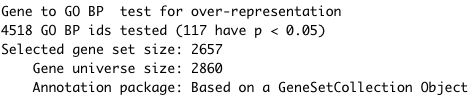
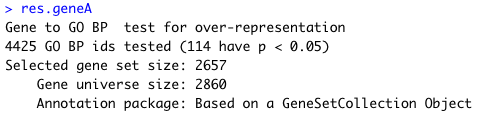
testing universe=all genes and universe=genes in causality

Changed region(s): [[0.0, 0.0306, 0.7353, 0.6429], [0.0588, 0.8265, 1.0, 0.9796], [0.0588, 0.6429, 0.4706, 0.7959]]

diff --git a/summary.md b/summary.md
@@ -343,8 +343,8 @@ We were expecting that the boxplot including transcription factors/regulators wo
 I used GOstats, an R package (bioconductor), to test GO terms for over representation. I used both a classical hypergeometric test and a conditional hypergeometric test, which uses the relationships among GO terms to decorrelate the results
 
 First I needed to define a few parameters:
-* **universe** - all the genes in the dataset (can be involved in the causality or not)
-* **interesting genes** - causal genes or affected genes
+* **universe** - all the genes in the dataset (can be involved in the causality or not) (num genes = 5720)
+* **interesting genes** - causal genes (n=2658) or affected genes (n=2478)
 
 Falcon & Gentleman (2007) the universe can be reduced by not using the genes that are not being expressed (in this case I would say not involved in the causality). Taking this into account, it would be interesting to perform the hypergeometric test using only the genes involved in the causality (genes that affect the expression of other genes and genes that are affected) as universe. Falcon & Gentleman (2007) also suggest removing genes that do not map to any GO term
 I'm performing the hypergeometric test twice, once for the causal genes and once for the affected genes to see if there's a different enrichment in both groups. It would be expected that the causal group would be enriched for genes involved in regulation.
@@ -352,6 +352,12 @@ I'm performing the hypergeometric test twice, once for the causal genes and once
 From Falcon & Gentleman (2007)  
 "In the hypergeometric model, each term is treated as an independent classification. Each gene is classified according to whether or not it has been selected and whether or not it is annotated at a particular term. A hypergeometric probability is computed to assess whether the number of selected genes associated with the term is larger than expected."
 
+Performed new hypergeometric test with
+* **universe** - all the genes involved in the causality (num genes = 2861)
+* **interesting genes** - causal genes or affected genes
+
+I checked if the resulting enrichment table was the same for both universes tested and it was.
+I will continue by using the results from the second test, where the universe was comprised of genes involved in the causality.
 
 ### Hypergeo results
 
@@ -360,13 +366,13 @@ From Falcon & Gentleman (2007)
 | *overview of hypergeometric test performed on the causal genes* |
 
 
-From the 4518 "biological process" GO terms tested, 117 were found to be overenriched (at p-value 0.05)
+From the 4425 "biological process" GO terms tested, 114 were found to be overenriched (at p-value 0.05)
 
-| ![hypergeo genesA summary](https://github.com/CarolinaPB/DegreeProject/blob/master/results/results_figures/images/hypergeosummary_genesB.png) |
+| ![hypergeo genesB summary](https://github.com/CarolinaPB/DegreeProject/blob/master/results/results_figures/images/hypergeosummary_genesB.png) |
 |:--:|
 | *overview of hypergeometric test performed on the affected genes* |
 
-From the 4440 "biological process" GO terms tested, 123 were found to be overenriched (at p-value 0.05)
+From the 4356 "biological process" GO terms tested, 114 were found to be overenriched (at p-value 0.05)
 
 #TODO show graphs and then go to the conditional hypergeo
 Figure showing the relationships among GO terms tested using the hypergeometric test:
